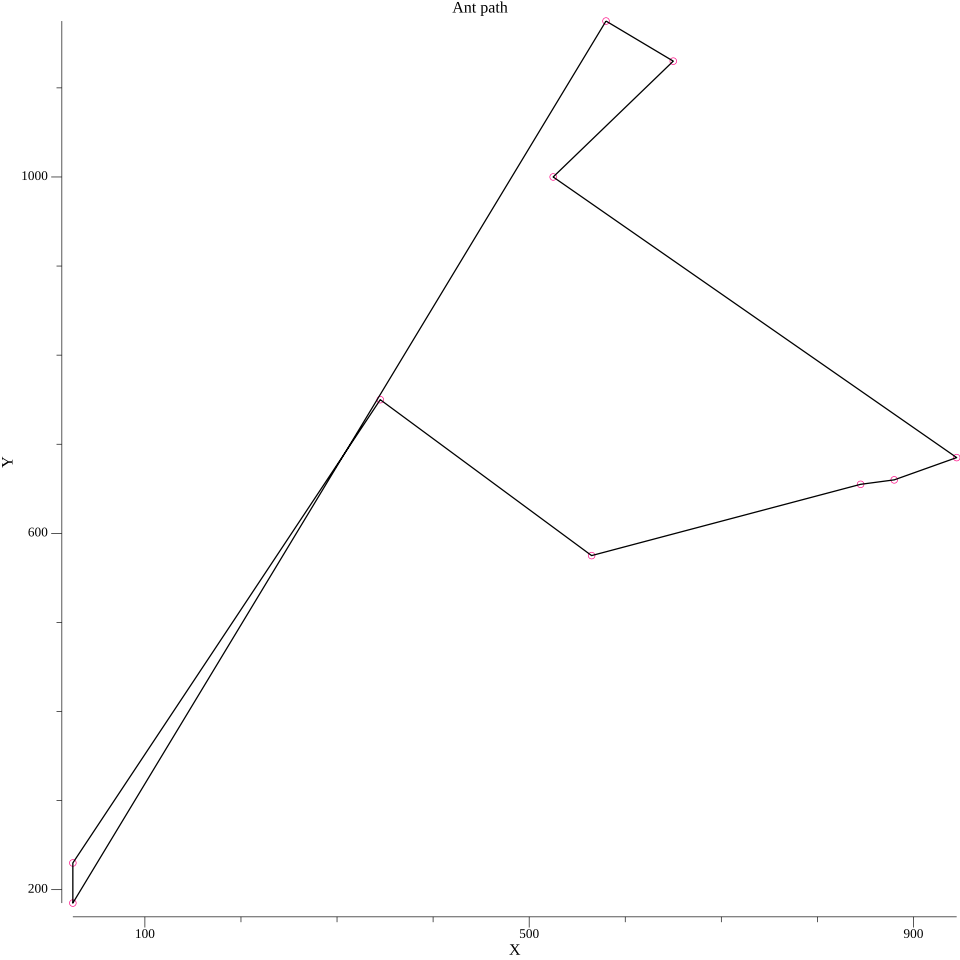
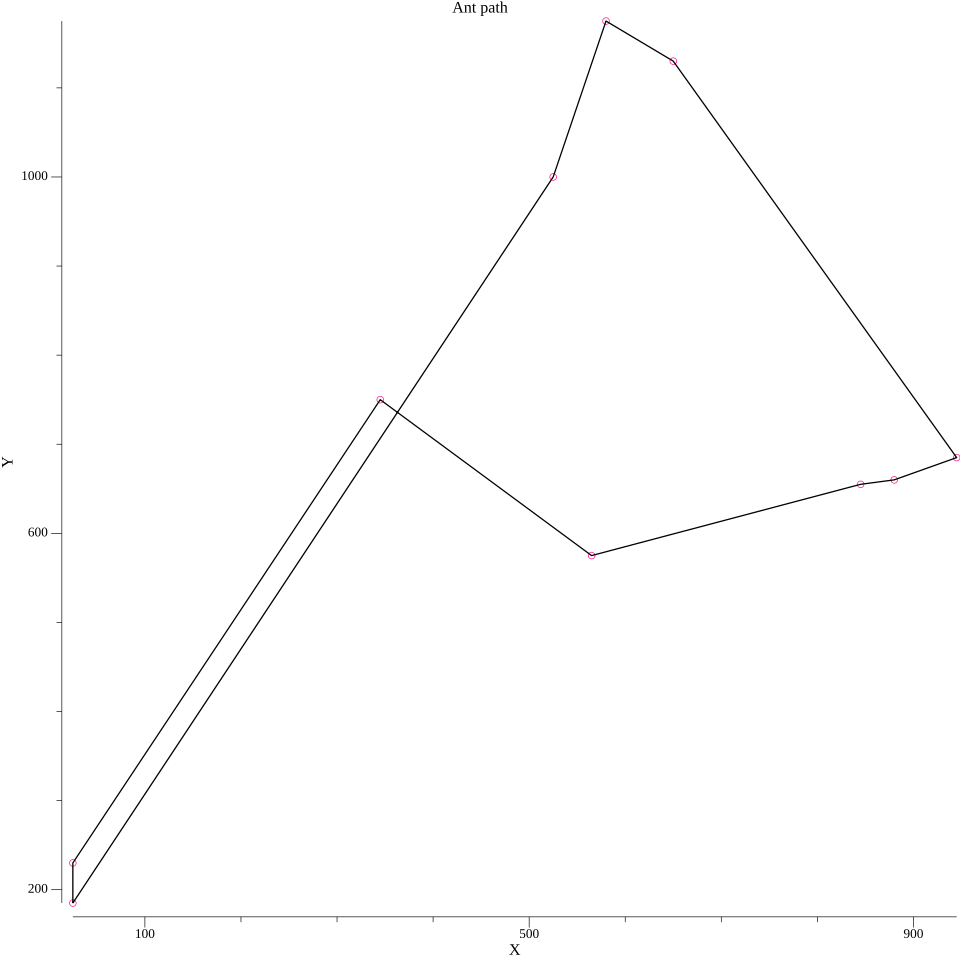
rm radundant case

diff --git a/main.go b/main.go
@@ -19,8 +19,6 @@ func main() {
 	runAco("trivial_0.ttp")
 	log.Print("Starting easy_0")
 	runAco("easy_0.ttp")
-	log.Print("Starting medium_0")
-	runAco("medium_0.ttp")
 	log.Print("Starting hard_0")
 	runAco("hard_0.ttp")
 	elapsed := time.Since(start)
@@ -34,7 +32,7 @@ func runAco(fileName string) {
 	acoParams := aco.AcoParams{
 		Alpha:              1,
 		Beta:               1,
-		Q:                  1000,
+		Q:                  10_000,
 		DegradationFactor:  0.1,
 		AntsPopulationSize: 10,
 	}
